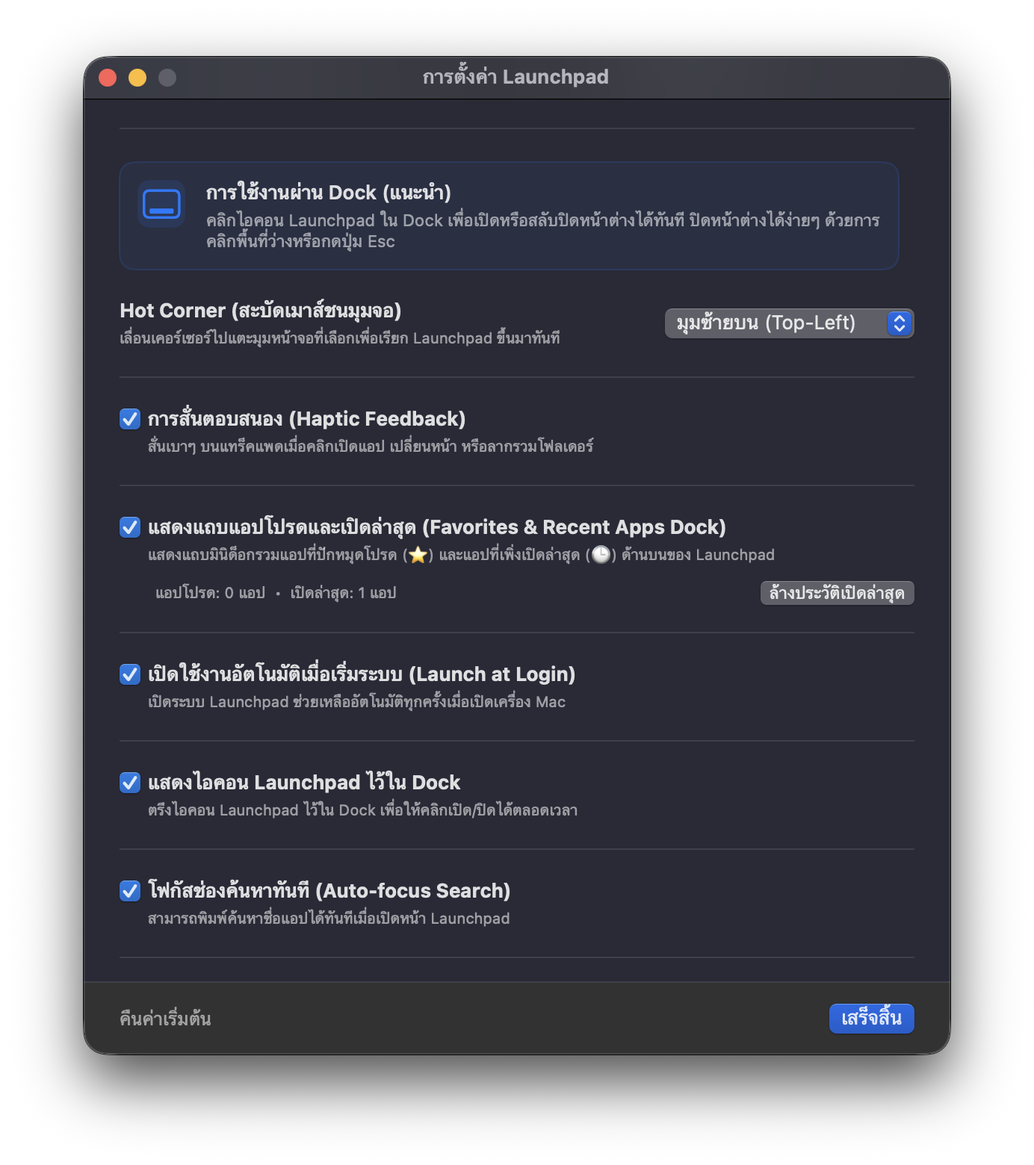
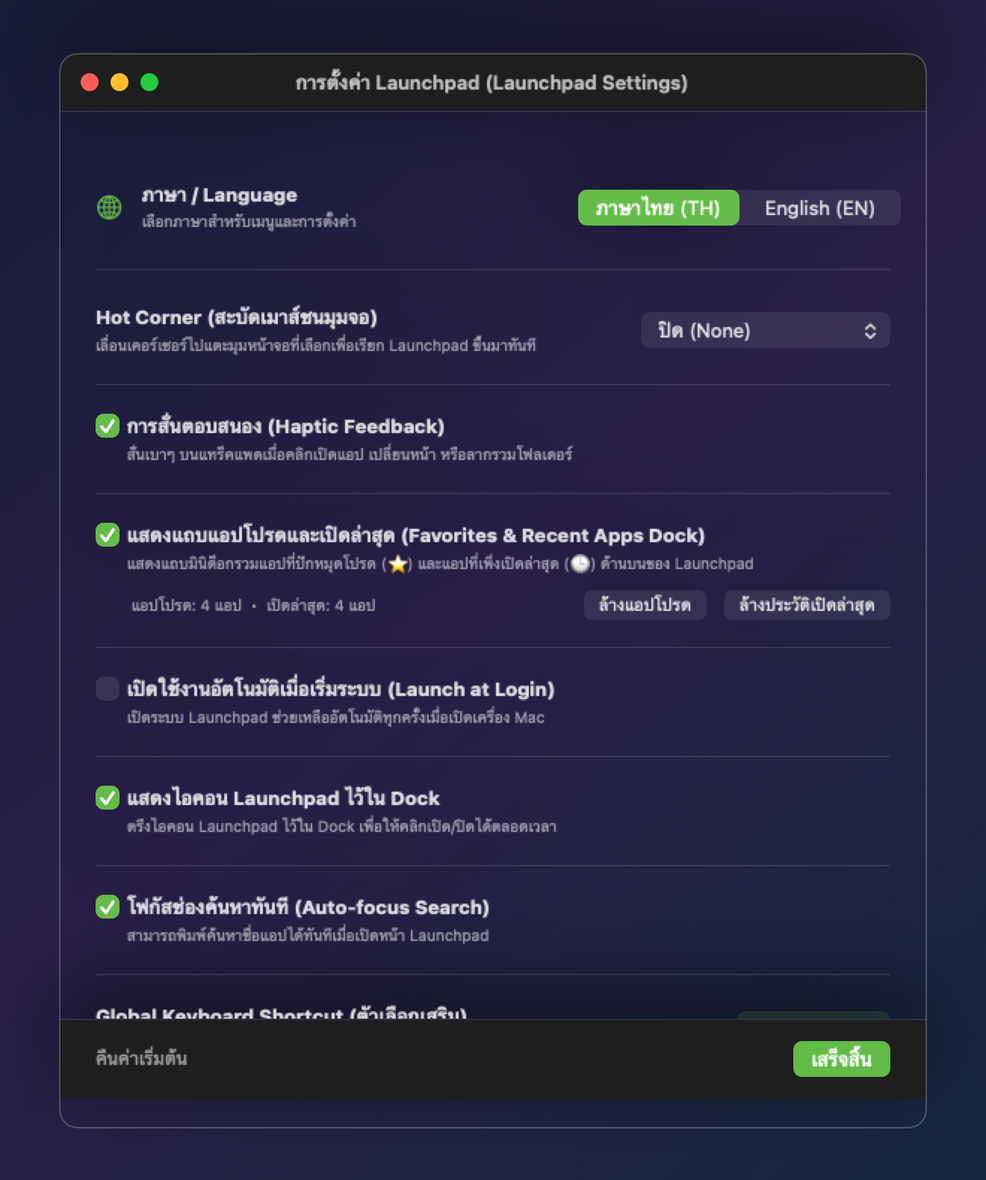
docs: update README and application screenshots

diff --git a/README.md b/README.md
@@ -1,173 +1,190 @@
-# 🚀 Launchpad for macOS (Native Swift & SwiftUI)
+<div align="center">
 
-แอปพลิเคชัน **Launchpad** แบบเนทีฟสำหรับ macOS ยุคใหม่ (macOS 14+ / Sonoma / Sequoia / macOS 26+) พัฒนาด้วย Swift และ SwiftUI + AppKit มอบประสบการณ์การเปิดใช้งานแอปที่ลื่นไหลระดับ 120Hz ProMotion โดยไม่มีความหน่วง หน้าตาและสัดส่วนถอดแบบมาจาก Launchpad ดั้งเดิมของ Apple ด้วยดีไซน์ Frosted Glass / Glassmorphism ที่เบลอภาพพื้นหลังจากหน้าจอจริง พร้อมระบบจัดระเบียบแอปครบครัน
+<img src="Resources/AppIcon.png" alt="Launchpad for macOS" width="136" height="136" />
+
+# Launchpad for macOS
+
+**แอปพลิเคชัน Launchpad แบบเนทีฟระดับ 120Hz ProMotion สำหรับ macOS ยุคใหม่**  
+พัฒนาด้วย **Swift 6**, **SwiftUI** และ **AppKit** ถอดแบบความรู้สึกดั้งเดิมของ Apple Launchpad  
+พร้อมดีไซน์ **Frosted Glass** จากวอลเปเปอร์จริง ระบบค้นหาอัจฉริยะ 2 ภาษา และการจัดระเบียบแอปครบวงจร
+
+[![Platform](https://img.shields.io/badge/Platform-macOS%2014.0%2B-007AFF?style=for-the-badge&logo=apple&logoColor=white)](https://github.com/warchag/Launchpad)
+[![Swift](https://img.shields.io/badge/Swift-6.0-F05138?style=for-the-badge&logo=swift&logoColor=white)](https://swift.org)
+[![Architecture](https://img.shields.io/badge/Apple%20Silicon%20%26%20Intel-Universal-34C759?style=for-the-badge&logo=apple&logoColor=white)](https://github.com/warchag/Launchpad)
+[![Version](https://img.shields.io/badge/Release-v1.2.0-AF52DE?style=for-the-badge)](https://github.com/warchag/Launchpad/releases)
+
+[**คุณสมบัติเด่น**](#-คุณสมบัติเด่น-key-features) •
+[**ภาพหน้าจอ**](#-ภาพตัวอย่างหน้าจอ-screenshots) •
+[**การควบคุมและคีย์ลัด**](#-การควบคุมและปุ่มลัด-controls--shortcuts) •
+[**วิธีติดตั้ง**](#-วิธีติดตั้ง-installation) •
+[**การตั้งค่า**](#-การตั้งค่า-settings) •
+[**Build จากซอร์สโค้ด**](#-การคอมไพล์จากซอร์สโค้ด-build-from-source)
+
+</div>
 
 ---
 
 ## 📸 ภาพตัวอย่างหน้าจอ (Screenshots)
 
-### 1. หน้าจอ Launchpad หลัก (FullScreen Glassmorphism & 7×5 Grid)
-![Launchpad Screenshot 1](screenshot/Screenshot.png)
+### 1. หน้าจอหลัก 7 × 5 Grid, หมวดหมู่แอป และแถบ Favorites & Recents Dock
+> ตารางมาตรฐาน Apple **7 คอลัมน์ × 5 แถว (35 แอปต่อหน้า)** บนพื้นหลัง Frosted Glass ที่ดึงภาพ Desktop Wallpaper จริงมาเบลอด้วย GPU พร้อมแถบคัดกรองหมวดหมู่ แถบมินิด็อกแอปโปรด/เปิดล่าสุด และจุดไฟแสดงสถานะแอปที่กำลังทำงานอยู่
+
+![Launchpad Main Screen](screenshot/Screenshot.png)
 
 <br/>
 
-### 2. แถบแอปโปรดและเปิดล่าสุด (Favorites & Recent Apps Dock)
-![Launchpad Screenshot 2](screenshot/Screenshot1.png)
+### 2. ระบบจัดกลุ่มโฟลเดอร์ (Glassmorphic Folder View & Drag-to-Reorder)
+> เปิดดูโฟลเดอร์ในหน้าต่างกระจกฝ้า เปลี่ยนชื่อโฟลเดอร์ได้ทันที ลากสลับตำแหน่งแอปภายในโฟลเดอร์ ลากแอปออกนอกกรอบเพื่อนำออกจากโฟลเดอร์ หรือกดปุ่ม **สลายกลุ่ม (Ungroup)** ได้ในคลิกเดียว
+
+![Launchpad Folder View](screenshot/Screenshot1.png)
 
 <br/>
 
-### 3. หน้าต่างการตั้งค่า 2 ภาษา (Bilingual Settings - TH & EN)
-![Launchpad Settings](screenshot/Screenshot2.png)
+### 3. ระบบค้นหาอัจฉริยะ 2 ภาษา และเลื่อนเลือกด้วยปุ่มลูกศร (Smart Search & Keyboard Navigation)
+> พิมพ์ค้นหาได้ทันทีโดยไม่ต้องคลิกช่องค้นหา (**Type-to-Search**) รองรับทั้งชื่อภาษาไทย ชื่อไฟล์ `.app` ภาษาอังกฤษ และตัวย่อ พร้อมไฮไลต์กรอบแอปที่เลือก เลื่อนด้วยปุ่มลูกศร `←` `→` `↑` `↓` และกด `Return` เพื่อเปิดแอปได้ทันที
+
+![Launchpad Smart Search](screenshot/Screenshot3.png)
 
 <br/>
 
-### 4. ระบบ PromptPay QR Code สำหรับโดเนทสนับสนุนผู้พัฒนา
-![Launchpad PromptPay QR Code](screenshot/Screenshot3.png)
+### 4. หน้าต่างการตั้งค่า 2 ภาษา (Bilingual Unified Settings — TH / EN)
+> สลับภาษาไทยและอังกฤษได้แบบเรียลไทม์ ปรับแต่งขนาดไอคอน ความเบลอ/ความมืดพื้นหลัง มุมจออัจฉริยะ (Hot Corner) ปุ่มลัดคีย์บอร์ด แถบแอปโปรด และจัดการแอปที่ซ่อนไว้ได้ครบในหน้าเดียว
+
+<div align="center">
+  <img src="screenshot/Screenshot2.png" alt="Launchpad Settings Window" width="680" />
+</div>
 
 ---
 
 ## ✨ คุณสมบัติเด่น (Key Features)
 
-1. **ดีไซน์ Frosted Glass จาก Desktop Wallpaper จริง**:
-   - ดึงภาพวอลเปเปอร์หน้าจอปัจจุบันมาประมวลผลเบลอ (Gaussian Blur) แบบเรียลไทม์
-   - หน้าต่างแผ่คลุมเต็มหน้าจอ 100% ขอบจรดขอบ ซ่อน Menu Bar และ Dock อย่างแนบเนียน รองรับทั้ง MacBook (มี Notch / ไม่มี Notch), Mac mini, iMac และจอภายนอก
-   - มีม่านลดแสงสะท้อน (Vignette Dimming) เพื่อให้ตัวอักษรและไอคอนคมชัด อ่านง่าย
+### 🎨 ดีไซน์และการแสดงผลระดับเนทีฟ (Native Visuals & Performance)
+* **Real-Time Frosted Glass Wallpaper**: ดึงภาพวอลเปเปอร์หน้าจอปัจจุบันมาลดขนาดและประมวลผล Gaussian Blur ด้วย GPU Caching (`.drawingGroup()`) ให้ภาพพื้นหลังนุ่มนวลและประหยัดพลังงานสูงสุด
+* **มาตรฐานกริด 7 × 5 แบบ Responsive**: แสดงผล **7 คอลัมน์ × 5 แถว (35 แอป/หน้า)** คำนวณระยะห่างอัตโนมัติตามความละเอียดหน้าจอ รองรับทั้งจอ MacBook (ที่มี Notch), iMac, Mac mini และจอมอนิเตอร์ภายนอก
+* **120Hz ProMotion Paging & Gesture Lock**: ปาด 2 นิ้วซ้าย/ขวาบน Trackpad ได้ลื่นไหล พร้อมระบบ **Gesture Lock** ล็อก 1 การปาดต่อ 1 หน้า ป้องกันหน้าไหลข้ามจากแรงเฉื่อย (Momentum)
+* **Multi-Monitor Hot-Plug Ready**: ปรับขนาดหน้าต่างและอัปเดตวอลเปเปอร์อัตโนมัติทันทีเมื่อเสียบหรือถอดจอแยก
 
-2. **กริดมาตรฐาน 7 × 5 และไอคอนขนาดใหญ่ (Native Apple Standard)**:
-   - ตารางแสดงแอป 7 คอลัมน์ × 5 แถว = 35 แอปพลิเคชันต่อ 1 หน้า (ตามมาตรฐานดั้งเดิมของ macOS)
-   - ไอคอนขนาดใหญ่ความละเอียดสูง (82 px) คมชัด สวยงาม ได้สัดส่วนพอดีกับทุกขนาดหน้าจอ
+### 🔍 การค้นหาและเปิดแอปความเร็วสูง (Fast Search & Navigation)
+* **Type-to-Search ทันใจ**: เปิด Launchpad แล้วพิมพ์ตัวอักษรใดๆ บนคีย์บอร์ดได้ทันที ระบบจะส่งตัวอักษรเข้าช่องค้นหาให้อัตโนมัติแม้ไม่ได้คลิกที่ช่องค้นหา
+* **Bilingual & Acronym Smart Search**: ค้นหาเจอทั้งชื่อแอปที่แปลเป็นภาษาไทยและชื่อไฟล์ `.app` ภาษาอังกฤษดั้งเดิม รวมถึงการค้นหาด้วยตัวอักษรย่อ (เช่น พิมพ์ `vsc` เพื่อหา `Visual Studio Code`)
+* **Keyboard Arrow Selection**: ใช้ปุ่มลูกศร `←` `→` `↑` `↓` เลื่อนกรอบไฮไลต์เลือกแอปในผลการค้นหา แล้วกด `Return (Enter)` เพื่อเปิดแอปที่เลือกทันที
+* **Two-Stage `Esc` Key**: กด `Esc` ครั้งแรกเพื่อล้างคำค้นหา (หรือปิดโฟลเดอร์ที่เปิดอยู่) และกด `Esc` อีกครั้งเพื่อปิด Launchpad
 
-3. **ระบบเปลี่ยนหน้าที่ลื่นไหล ไม่กระตุก ไม่ข้ามหน้า (ProMotion 60/120Hz)**:
-   - ปาด 2 นิ้วบน Trackpad ได้อย่างเป็นธรรมชาติ มีระบบ **Gesture Lock (ปาด 1 ครั้ง = ข้ามได้แค่ 1 หน้า)** ไม่มีการไหลทะลุเพราะแรงเฉื่อย (Momentum)
-   - สไลด์หน้าต่อเนื่องแบบ Carousel นุ่มนวล ไม่กระตุก
+### 🗂 การจัดระเบียบแอปและโฟลเดอร์ (Organization & Folder Management)
+* **Persistent Drag-and-Drop Reordering**: ลากสลับตำแหน่งแอปและโฟลเดอร์ได้อย่างอิสระ และบันทึกตำแหน่งไว้ถาวรแม้ปิดเปิดเครื่องใหม่
+* **การจัดการโฟลเดอร์ครบวงจร**:
+  * ลากแอปไปวางทับอีกแอปเพื่อสร้างโฟลเดอร์ใหม่
+  * ลากสลับตำแหน่งแอปภายในโฟลเดอร์
+  * ลากแอปออกนอกกรอบโฟลเดอร์ หรือคลิกขวาเลือก **นำออกจากโฟลเดอร์ (Remove from Folder)**
+  * คลิกขวาที่โฟลเดอร์ (หรือกดปุ่มด้านบนโฟลเดอร์) เพื่อ **สลายกลุ่มโฟลเดอร์ (Ungroup Folder)** นำแอปทั้งหมดกลับสู่หน้าหลัก
+* **Category Filter Pills**: แถบกรองหมวดหมู่ด้านบน (ทั้งหมด, เครื่องมือพัฒนา, กราฟิกและสื่อ, งานเอกสาร, ยูทิลิตี้, โซเชียล, เกม)
+* **Auto File-System Watcher**: ตรวจจับโฟลเดอร์ `/Applications` และ `~/Applications` แบบเรียลไทม์ เมื่อติดตั้งหรือลบแอป รายการใน Launchpad จะอัปเดตเองอัตโนมัติ
 
-4. **ระบบค้นหาแอปอัจฉริยะ (Smart Search)**:
-   - เปิดขึ้นมาแล้วพิมพ์ค้นหาชื่อแอปได้ทันที (Auto-focus)
-   - กดปุ่ม `Return (Enter)` เพื่อเปิดแอปแรกที่พบทันที หรือกด `Esc` เพื่อยกเลิก
-
-5. **ระบบสร้างและจัดโฟลเดอร์ (Folder Grouping & Ungroup)**:
-   - **สร้างโฟลเดอร์ใหม่**: คลิกค้างแล้วลากไอคอนแอปหนึ่งไปวางทับอีกแอปหนึ่ง
-   - **นำแอปออกจากโฟลเดอร์**: เปิดโฟลเดอร์แล้วลากไอคอนแอปออกมาปล่อยที่พื้นที่ว่างด้านนอก
-   - **เปลี่ยนชื่อโฟลเดอร์**: คลิกที่ชื่อโฟลเดอร์เพื่อพิมพ์แก้ไขชื่อใหม่ได้ทันที
-
-6. **โหมดจัดระเบียบสั่นดุ๊กดิ๊ก (Jiggle Edit Mode)**:
-   - คลิกปุ่มดินสอด้านขวาล่าง หรือคลิกค้างที่ไอคอนแอปใดๆ เพื่อเข้าสู่โหมดแก้ไข
-   - ไอคอนจะเริ่มสั่นดุ๊กดิ๊ก พร้อมแสดงปุ่ม `(x)` เพื่อซ่อนแอปได้อย่างรวดเร็ว
-
-7. **🟢 ไฟสถานะแอปที่กำลังเปิดอยู่ (Running App Indicators)**:
-   - แสดงจุดไฟสีขาวเนียนตาใต้ไอคอนแอป (และไอคอนโฟลเดอร์) ที่กำลังเปิดทำงานอยู่ในระบบจริง แบบเดียวกับจุดไฟใต้ไอคอนใน Dock ของ macOS
-
-8. **⭐ แถบแอปโปรดและเปิดล่าสุด (Favorites & Recent Apps Dock)**:
-   - แถบมินิด็อกกระจก Frosted Glass ลอยตัวด้านบน แสดงผลทั้งแอปที่ปักหมุดเป็นแอปโปรด (⭐) และแอปที่เพิ่งเปิดใช้งานล่าสุด (🕒)
-   - ปักหมุดแอปใดๆ เป็นแอปโปรดได้ง่ายๆ เพียงคลิกขวาที่ไอคอนแอปแล้วเลือก **ปักหมุดเป็นแอปโปรด**
-   - รองรับเอฟเฟกต์ชี้เมาส์ขยายไอคอน (Hover Magnification) และแสดงไฟสถานะแอปที่รันอยู่ใต้ไอคอนทันที
-   - คลิกขวาที่ไอคอนในด็อกเพื่อเปิด, แสดงใน Finder, ถอนหมุด หรือลบออกจากรายการล่าสุด
-
-9. **คลิกขวาที่ไอคอนแอป (Context Menu)**:
-   - **Pin to Favorites / Unpin**: ปักหมุดเป็นแอปโปรด หรือถอนหมุดออกจากแถบด็อก
-   - **Show in Finder**: เปิดดูตำแหน่งไฟล์แอปใน Finder
-   - **Copy Path**: คัดลอก Path ของแอปไปยัง Clipboard
-   - **Hide from Launchpad**: ซ่อนแอปที่ไม่ต้องการเห็น
-
-10. **หน้าต่างการตั้งค่า 2 ภาษา (Bilingual Unified Settings - Thai & English)**:
-   - สลับเปลี่ยนภาษาได้ทันทีที่ด้านบนสุดระหว่าง **ภาษาไทย (TH)** และ **English (EN)**
-   - รวมทุกหมวดหมู่ไว้ในหน้าเดียว เลื่อนดูและปรับแต่งได้สะดวก
-   - เปิด/ปิดแถบแอปโปรด & เปิดล่าสุด พร้อมปุ่มล้างประวัติเปิดล่าสุดหรือล้างแอปโปรดในคลิกเดียว
-   - จัดการแอปที่ซ่อนไว้ (กู้คืนได้ตลอดเวลา), ปรับความเบลอ/ความมืด, ตั้งค่า Hot Corner และปุ่มลัดเสริม
-   - **กล่องข้อมูลติดต่อ & ผู้พัฒนา (Contact & Developer)**:
-     - **GitHub Repository**: ลิงก์ตรงสู่ `warchag/Launchpad` ดูซอร์สโค้ดและติดตามการพัฒนา
-     - **เพจ Facebook**: Learn to Developer
-     - **PromptPay QR Code พร้อมเพย์แท้ (Buy Me a Coffee)**: สแกนได้ทันทีด้วยทุกแอปธนาคาร (เบอร์ `0959201930` นายวรจักร คงหนู) พร้อมปุ่มคัดลอกเบอร์และปุ่มสลับซ่อน/แสดง QR Code
+### ⭐ แถบมินิด็อกและสถานะการทำงาน (Favorites Dock & Live Status)
+* **Favorites & Recent Apps Mini Dock**: แถบกระจกฝ้าด้านบนรวมแอปโปรดที่ปักหมุดไว้ (⭐) และแอปที่เพิ่งเปิดล่าสุด (🕒) พร้อมเอฟเฟกต์ขยายไอคอนเมื่อชี้เมาส์ (Hover Magnification)
+* **Running App Indicator & Quick Quit**: แสดงจุดไฟสีขาวใต้ไอคอนแอปและโฟลเดอร์ที่กำลังรันอยู่จริง และสามารถคลิกขวาเลือก **ปิดแอป (Quit App)** ได้ทันทีจากใน Launchpad
 
 ---
 
-## 📖 วิธีใช้งาน (How to Use)
+## 🎮 การควบคุมและปุ่มลัด (Controls & Shortcuts)
 
-### 1. การเปิดและปิด Launchpad
-* **คลิกที่ Dock**: คลิกที่ไอคอน Launchpad ใน Dock เพื่อเปิด หรือคลิกซ้ำเพื่อสลับปิด
-* **คลิกที่ Status Bar**: คลิกที่ไอคอนบนแถบเมนูด้านบน (หรือคลิกขวาเพื่อเปิดเมนูตั้งค่า)
-* **สะบัดเมาส์ชนมุมจอ (Hot Corner)**: สามารถตั้งค่าให้สะบัดเมาส์ไปชนมุมจอเพื่อเปิด Launchpad ได้ทันที
-* **ปุ่มลัดเสริม (Shortcut)**: สามารถตั้งค่าปุ่มลัดได้ เช่น `⌥ Space` (Option + Space)
-* **การปิดหน้าต่าง**: กดปุ่ม `Escape` บนคีย์บอร์ด หรือคลิกที่พื้นที่ว่างบนหน้าจอ
-
-### 2. การเลื่อนเปลี่ยนหน้า (Paging)
-* **Trackpad บน MacBook**: ใช้ 2 นิ้วปาดไปทางซ้ายหรือขวา
-* **เมาส์ทั่วไป**: หมุนลูกกลิ้งเมาส์ (Scroll Wheel) ขึ้นหรือลง
-* **คีย์บอร์ด**: กดปุ่มลูกศร `←` (ซ้าย) หรือ `→` (ขวา)
-* **จุด Pagination**: คลิกที่จุดกลมๆ ด้านล่างของหน้าจอ
-
-### 3. การใช้งานแถบแอปโปรดและเปิดล่าสุด (Favorites & Recent Dock)
-* **ปักหมุดแอปโปรด**: คลิกขวาที่ไอคอนแอปใดๆ ในหน้าจอ ➜ เลือก **ปักหมุดเป็นแอปโปรด (Pin to Favorites)**
-* **เปิดแอปจากด็อก**: คลิกที่ไอคอนในแถบด้านบนเพื่อเปิดแอปได้ทันใจจากทุกหน้า
-* **ถอนหมุดหรือลบประวัติ**: คลิกขวาที่ไอคอนในแถบด็อก ➜ เลือก **ถอนหมุด (Unpin)** หรือ **ลบออกจากรายการล่าสุด**
-* **เปิด/ปิดหรือล้างรายการ**: เข้าไปที่หน้าต่างการตั้งค่า ➜ หัวข้อ **แถบแอปโปรดและเปิดล่าสุด**
-
-### 4. การค้นหาแอป
-1. เปิด Launchpad ขึ้นมา
-2. พิมพ์ชื่อแอปที่ต้องการได้ทันที (ไม่ต้องคลิกช่องค้นหา)
-3. กด `Return (Enter)` เพื่อเปิดแอปแรกที่พบ หรือกด `Esc` เพื่อเคลียร์คำค้นหา
-
-### 5. การจัดการโฟลเดอร์และไอคอน
-* **สร้างโฟลเดอร์**: ลากไอคอนแอป A ไปซ้อนทับไอคอนแอป B
-* **นำแอปออกจากโฟลเดอร์**: คลิกเปิดโฟลเดอร์ แล้วลากแอปออกมาปล่อยพื้นที่ว่างภายนอก
-* **แก้ไขชื่อโฟลเดอร์**: คลิกเปิดโฟลเดอร์ แล้วคลิกที่ข้อความชื่อโฟลเดอร์เพื่อพิมพ์ชื่อใหม่
-* **ซ่อนแอปที่ไม่ต้องการ**: คลิกขวาที่แอป ➜ เลือก **Hide from Launchpad** (สามารถไปกู้คืนได้ในหน้าต่างการตั้งค่า)
+| การกระทำ (Action) | วิธีควบคุมด้วยเมาส์ / Trackpad | ปุ่มลัดคีย์บอร์ด (Keyboard) |
+| :--- | :--- | :--- |
+| **เปิด / ปิด Launchpad** | คลิกไอคอนใน Dock / Status Bar / สะบัดเมาส์ชนมุมจอ (**Hot Corner**) | `⌥ Space` (ปรับเปลี่ยนได้ในการตั้งค่า) |
+| **หุบนิ้วเพื่อปิด (Pinch to Close)** | ใช้ 4 หรือ 2 นิ้ว **หุบเข้าหากัน (Pinch In)** บน Trackpad | `Esc` |
+| **เลื่อนเปลี่ยนหน้า (Paging)** | ปาด 2 นิ้วซ้าย/ขวา บน Trackpad หรือหมุนลูกกลิ้งเมาส์ | `←` / `→` (เมื่อไม่ได้ค้นหา) |
+| **ค้นหาแอปทันที (Type-to-Search)** | คลิกช่องค้นหาด้านบน | พิมพ์ตัวอักษรใดๆ ได้ทันที |
+| **เลือกแอปในผลค้นหา** | คลิกซ้ายที่ไอคอนแอป | ปุ่มลูกศร `←` `→` `↑` `↓` แล้วกด `Return` |
+| **ล้างคำค้นหา / ปิดโฟลเดอร์ / ปิดหน้าต่าง** | คลิกปุ่ม `✕` หรือคลิกพื้นที่ว่างบนหน้าจอ | `Esc` (กด 1 ครั้งล้างคำค้น / กดซ้ำปิดหน้าต่าง) |
+| **เข้าสู่โหมดแก้ไข (Jiggle Edit Mode)** | คลิกค้างที่ไอคอนแอป หรือคลิกปุ่มดินสอ ✏ มุมขวาล่าง | กด `Esc` เพื่อออกจากโหมดแก้ไข |
+| **เมนูคำสั่งด่วน (Context Menu)** | คลิกขวาที่ไอคอนแอป หรือไอคอนโฟลเดอร์ | — |
 
 ---
 
-## 🛠 วิธีติดตั้งและนำไปปักไว้ที่ Dock (Installation)
+## 🛠 วิธีติดตั้ง (Installation)
 
-1. เปิด **Finder**
-2. ลากไฟล์ **`Launchpad.app`** ไปวางไว้ในโฟลเดอร์ **`/Applications` (โฟลเดอร์แอปพลิเคชันของเครื่อง)**
-3. ลาก **`Launchpad.app`** จากโฟลเดอร์ Applications ลงมาวางที่แถบ **Dock** ของคุณได้ทันที
-4. คลิกเปิดใช้งาน Launchpad จาก Dock ได้อย่างสะดวกรวดเร็ว
+### วิธีที่ 1: ติดตั้งจากไฟล์ `.app` หรือ `.zip`
+1. แตกไฟล์ `Launchpad.zip` (หากดาวน์โหลดเป็นไฟล์ซิป) จะได้ไฟล์ **`Launchpad.app`**
+2. ลากไฟล์ **`Launchpad.app`** ไปวางไว้ในโฟลเดอร์ **`/Applications`**
+3. ลาก **`Launchpad.app`** จาก `/Applications` ลงมาปักหมุดไว้บนแถบ **Dock** เพื่อกดเรียกใช้งานได้สะดวกเหมือน Launchpad ดั้งเดิม
+4. *(ตัวเลือกเสริม)* เปิดหน้าต่างการตั้งค่าของแอป แล้วเปิดใช้งาน **"เปิดใช้งานอัตโนมัติเมื่อเข้าสู่ระบบ (Launch at Login)"**
 
----
-
-## ⚙ หน้าต่างการตั้งค่า (Settings)
-
-สามารถเปิดหน้าต่างตั้งค่าได้ 2 วิธี:
-1. คลิกขวาที่ไอคอน Launchpad บนแถบ Status Bar ด้านบน ➜ เลือก **"การตั้งค่า..."**
-2. คลิกปุ่มฟันเฟือง ⚙ บริเวณมุมขวาล่างของหน้าจอ Launchpad
-
-**การตั้งค่าที่มีให้ปรับแต่ง:**
-* **การจัดเรียงไอคอนและแอป**:
-  - จัดเรียงตามตัวอักษร ก-ฮ / A-Z อัตโนมัติ
-  - ปุ่มจัดเรียง ก-ฮ ทันที
-  - ปุ่มซิงค์โฟลเดอร์เริ่มต้นจาก macOS (เช่น กลุ่ม Other และ Utility)
-* **ภาพพื้นหลังและความโปร่งใส (Appearance)**:
-  - แถบปรับระดับความเบลอของภาพวอลเปเปอร์ (Wallpaper Blur)
-  - แถบปรับความมืดของพื้นหลัง (Background Dimming)
-* **การเปิดใช้งานและปุ่มลัด (General & Shortcuts)**:
-  - เปิดใช้งานอัตโนมัติเมื่อเริ่มระบบ (Launch at Login)
-  - แสดงไอคอน Launchpad ไว้ใน Dock
-  - โฟกัสช่องค้นหาทันทีเมื่อเปิดหน้าต่าง
-  - สะบัดเมาส์ชนมุมจอ (Hot Corner)
-  - ปุ่มลัดเสริมของระบบ (Global Keyboard Shortcut)
-  - การสั่นตอบสนองบนแทร็คแพด (Haptic Feedback)
-  - แถบแสดง 6 แอปล่าสุด (Recent Apps Shelf)
-  - จัดการและกู้คืนแอปที่ซ่อนไว้ (Hidden Apps Manager)
-  - สแกนและรีเฟรชรายการแอปพลิเคชัน (App Library Cache)
+> [!TIP]
+> หากเปิดครั้งแรกแล้ว macOS แจ้งเตือนเรื่องความปลอดภัย ให้เปิดผ่านการคลิกขวาที่ `Launchpad.app` แล้วเลือก **Open** หรือรันคำสั่ง `xattr -cr /Applications/Launchpad.app` ใน Terminal
 
 ---
 
-## 💻 วิธีคอมไพล์จากซอร์สโค้ด (Build from Source)
+## ⚙ การตั้งค่า (Settings)
 
-หากต้องการแก้ไขหรือคอมไพล์แอปใหม่ด้วยตนเอง:
+เปิดหน้าต่างการตั้งค่าได้โดยคลิกปุ่ม **ฟันเฟือง (⚙)** มุมขวาล่างของหน้าจอ Launchpad หรือคลิกขวาที่ไอคอนบนแถบเมนูด้านบน (Status Bar):
+
+* **🌐 ภาษา (Language)**: สลับระหว่าง **ภาษาไทย (TH)** และ **English (EN)** ทันทีทั้งโปรแกรม
+* **📐 การจัดเรียงและขนาดไอคอน**:
+  * ปรับขนาดไอคอน (`64 px` – `96 px`, ค่าเริ่มต้น `82 px`) บนตารางมาตรฐาน `7 × 5`
+  * จัดเรียงตามตัวอักษร ก-ฮ / A-Z อัตโนมัติ หรือกดปุ่มจัดเรียงทันที
+  * ซิงค์โฟลเดอร์เริ่มต้นของ macOS (เช่น `Utilities` และ `Other`)
+* **🖼 ภาพพื้นหลังและความโปร่งใส**:
+  * ปรับระดับความเบลอของวอลเปเปอร์ (`Wallpaper Blur`) และความมืดพื้นหลัง (`Background Dimming`)
+* **⚡ การเปิดใช้งานและปุ่มลัด**:
+  * เปิดอัตโนมัติเมื่อเข้าสู่ระบบ (`Launch at Login`)
+  * แสดงหรือซ่อนไอคอนใน Dock
+  * โฟกัสช่องค้นหาอัตโนมัติเมื่อเปิดหน้าต่าง
+  * ตั้งค่า **มุมจออัจฉริยะ (Hot Corner)** ทั้ง 4 มุมจอ
+  * ตั้งค่า **ปุ่มลัดคีย์บอร์ด (Global Shortcut)** (`⌥ Space`, `⌃ Space`, `⌘ ⇧ L`, `F4`)
+  * เปิด/ปิดการสั่นตอบสนองบนแทร็คแพด (`Haptic Feedback`)
+* **⭐ แถบแอปโปรด & แอปที่ซ่อนไว้**:
+  * เปิด/ปิดแถบแอปโปรดและเปิดล่าสุด พร้อมปุ่มล้างประวัติ
+  * ดูรายการแอปที่ถูกซ่อนไว้ และกดกู้คืนกลับมาแสดงผลได้ตลอดเวลา
+
+---
+
+## 💻 การคอมไพล์จากซอร์สโค้ด (Build from Source)
+
+### โครงสร้างโปรเจกต์ (Project Structure)
+
+```text
+Launchpad/
+├── Package.swift                  # Swift Package Manager manifest (macOS 14+)
+├── package_app.sh                 # สคริปต์ Build Release Binary และสร้าง Launchpad.app
+├── make_icon.swift                # สคริปต์ SwiftUI เรนเดอร์ไอคอน AppIcon.png และ AppIcon.icns
+├── Resources/
+│   ├── AppIcon.png                # ไอคอนแอปความละเอียด 1024×1024
+│   └── AppIcon.icns               # ชุดไอคอนมาตรฐาน macOS Bundle
+└── Sources/Launchpad/
+    ├── App/                       # จุดเริ่มต้นแอป (LaunchpadApp, AppDelegate, GlobalHotkeyManager)
+    ├── Models/                    # โมเดลข้อมูล (AppScanner, AppSettings,AppItem, WallpaperManager)
+    ├── Views/                     # หน้าจอ SwiftUI (LaunchpadOverlayView, FolderDetailView, SettingsView ฯลฯ)
+    └── Window/                    # การจัดการหน้าต่างไร้ขอบและอีเวนต์ (LaunchpadWindowController)
+```
+
+### คำสั่ง Build และสร้าง `.app` Bundle
 
 ```bash
-# 1. เข้าสู่ไดเรกทอรีโปรเจกต์
+# 1. เข้าสู่โฟลเดอร์โปรเจกต์
 cd Launchpad
 
-# 2. รันสคริปต์คอมไพล์และแพ็กเกจ .app Bundle
+# 2. (ตัวเลือกเสริม) สร้างไฟล์ไอคอน AppIcon.icns ใหม่ด้วย SwiftUI Renderer
+swift make_icon.swift
+
+# 3. คอมไพล์โหมด Release และสร้าง Launchpad.app พร้อม Code Sign
 ./package_app.sh
 ```
 
-สคริปต์จะทำการคอมไพล์ Release Binary ด้วย Xcode Toolchain, ผูก Resource ไอคอนความละเอียดสูง, สร้างโครงสร้าง Info.plist และเซ็นชื่อ Code Sign ให้พร้อมใช้งานทันทีที่ `Launchpad/Launchpad.app`
+เมื่อรันเสร็จสิ้น จะได้ไฟล์ **`Launchpad.app`** ที่พร้อมใช้งานทันทีในโฟลเดอร์โปรเจกต์
 
 ---
 
 ## 📋 ความต้องการของระบบ (System Requirements)
 
-* **ระบบปฏิบัติการ**: macOS 14.0 Sonoma หรือใหม่กว่า (macOS 15 Sequoia, macOS 26+)
-* **ฮาร์ดแวร์**: รองรับทั้งชิป Apple Silicon (M1 / M2 / M3 / M4  /  M5 ทุกซีรีส์) และ Intel Mac
+* **ระบบปฏิบัติการ**: macOS 14.0 (Sonoma), macOS 15.0 (Sequoia), macOS 26 (Tahoe) หรือใหม่กว่า
+* **สถาปัตยกรรมซีพียู**: รองรับทั้ง **Apple Silicon** (`M1` / `M2` / `M3` / `M4` / `M5`) และ **Intel Mac**
+
+---
+
+## 👨💻 ผู้พัฒนาและการสนับสนุน (Developer & Support)
+
+พัฒนาและดูแลโดย **Worracag Kongnoo (นายวรจักร คงหนู)**
+
+* **GitHub Repository**: [github.com/warchag/Launchpad](https://github.com/warchag/Launchpad)
+* **Facebook Page**: [Learn to Developer](https://www.facebook.com/learntodeveloper)
+* **สนับสนุนผู้พัฒนา (Buy Me a Coffee / PromptPay)**: พร้อมเพย์ `095-920-1930` (นายวรจักร คงหนู — สามารถสแกน QR Code ได้โดยตรงภายในหน้าต่างตั้งค่าของแอป)
